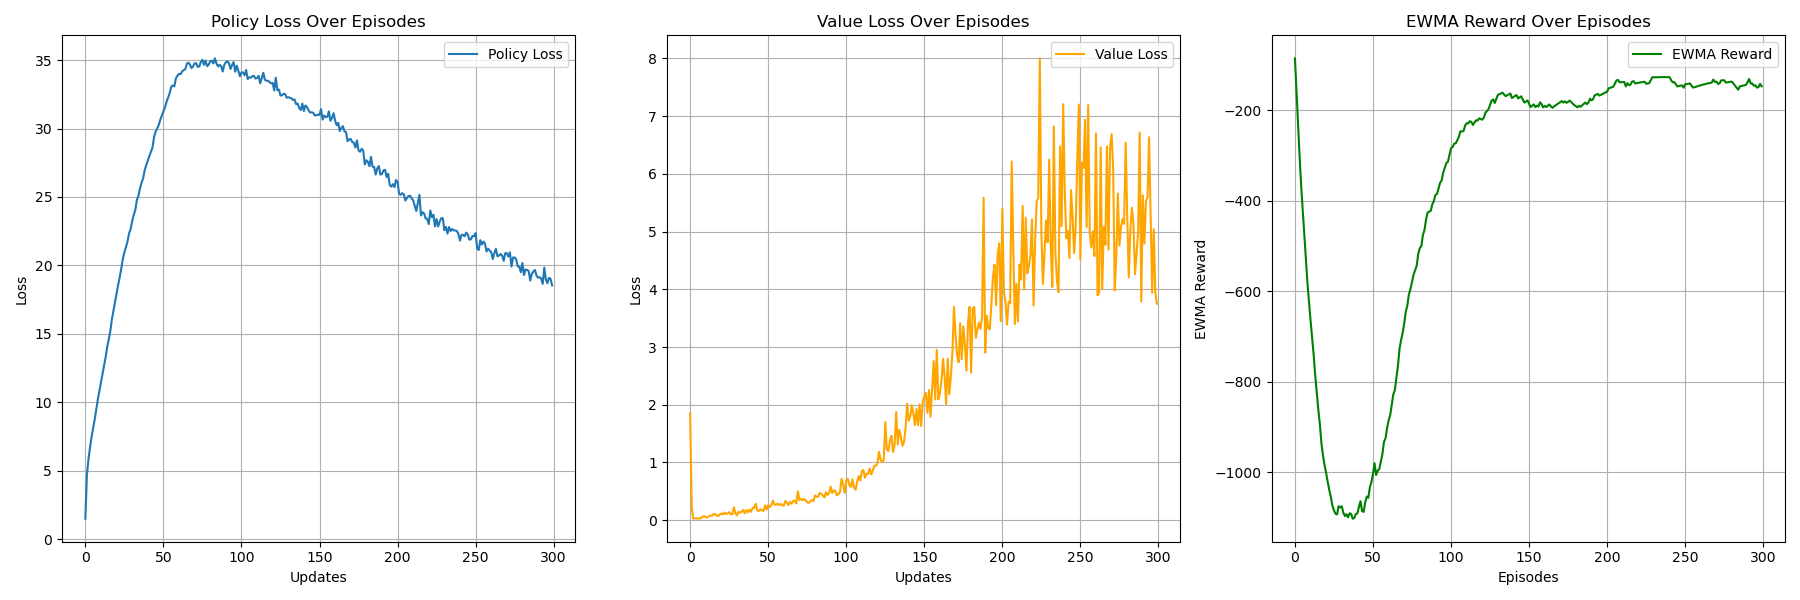
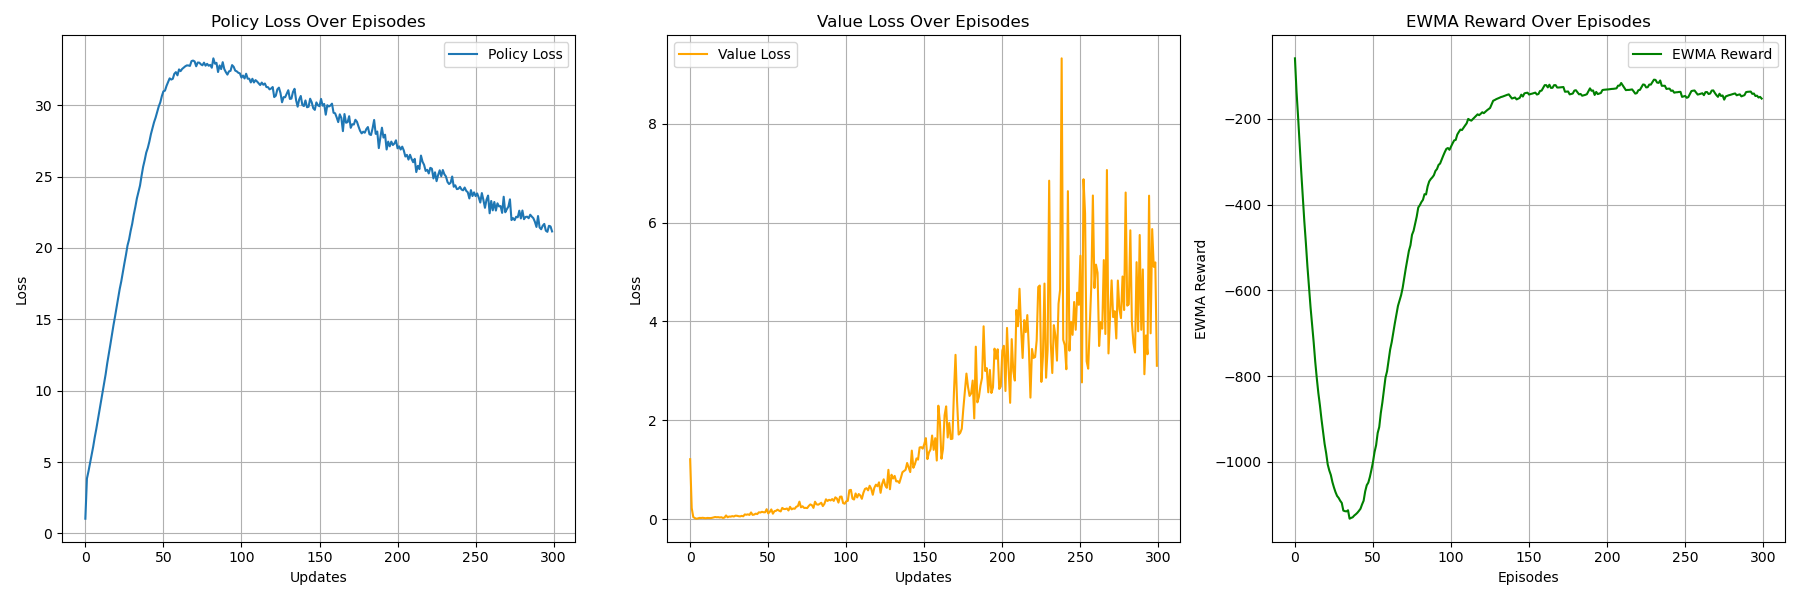
minor fix and add SAC discrete

diff --git a/SAC/sac_adv_discrete.py b/SAC/sac_adv_discrete.py
@@ -1,0 +1,324 @@
+import random
+import gym
+import numpy as np
+import torch
+import torch.nn as nn
+import torch.optim as optim
+import torch.nn.functional as F
+from torch.distributions import Categorical
+import matplotlib.pyplot as plt
+from collections import namedtuple
+
+
+# Target copy utility
+def soft_update(target, source, tau):
+    for target_param, param in zip(target.parameters(), source.parameters()):
+        target_param.data.copy_(target_param.data * (1.0 - tau) + param.data * tau)
+
+def hard_update(target, source):
+    for target_param, param in zip(target.parameters(), source.parameters()):
+        target_param.data.copy_(param.data)
+
+
+# CUDA GPU device usage utility
+deviceGPU = torch.device("cuda" if torch.cuda.is_available() else "cpu")
+
+def to_device(data):
+    """Move a tensor or a collection of tensors to the specified device."""
+    if isinstance(data, (list, tuple)):
+        return [to_device(d, deviceGPU) for d in data]
+    return data.to(deviceGPU)
+
+
+# Replay buffer utility
+Transition = namedtuple(
+    'Transition', ('state', 'action', 'mask', 'next_state', 'reward'))
+
+class ReplayMemory:
+    def __init__(self, capacity):
+        self.capacity = capacity
+        self.memory = []
+        self.position = 0
+    def push(self, *args):
+        if len(self.memory) < self.capacity:
+            self.memory.append(None)
+        self.memory[self.position] = Transition(*args)
+        self.position = int((self.position + 1) % self.capacity)  # as a ring buffer
+    
+    def sample(self, batch_size):
+        return random.sample(self.memory, batch_size) #state, action, reward, next_state, done
+
+    def __len__(self):
+        return len(self.memory)
+
+
+# SAC Q net for discrete
+class SoftQNetwork(nn.Module):
+    def __init__(self, hidden_size, num_inputs, num_actions):
+        super(SoftQNetwork, self).__init__()
+        
+        self.layers = nn.Sequential(
+            nn.Linear(num_inputs, hidden_size),
+            nn.ReLU(),  # Replace with the provided activation if needed
+            nn.Linear(hidden_size, hidden_size),
+            nn.ReLU(),
+            nn.Linear(hidden_size, num_actions),
+        )
+
+    def forward(self, inputs):
+        x = self.layers(inputs)
+        return x
+        
+
+# SAC policy net for discrete
+class PolicyNetwork(nn.Module):
+    def __init__(self, hidden_size, num_inputs, num_actions):
+        super(PolicyNetwork, self).__init__()
+        
+        self.layers = nn.Sequential(
+            nn.Linear(num_inputs, hidden_size),
+            nn.ReLU(),  # Replace with the provided activation if needed
+            nn.Linear(hidden_size, hidden_size),
+            nn.ReLU(),
+            nn.Linear(hidden_size, num_actions),
+            nn.Softmax(dim=-1)
+        )
+
+        self.num_actions = num_actions
+        
+    def forward(self, state):
+        probs = self.layers(state)
+        return probs
+    
+    def evaluate(self, state, epsilon=1e-8):
+        '''
+        generate sampled action with state as input wrt the policy network;
+        '''
+        probs = self.forward(state)
+        log_probs = torch.log(probs)
+
+        # stable result
+        z = (probs == 0.0).float() * epsilon
+        log_probs = torch.log(probs + z)
+
+        return log_probs
+        
+    def get_action(self, state, deterministic):
+        probs = self.forward(state)
+        dist = Categorical(probs)
+
+        if deterministic:
+            action = np.argmax(probs.detach().cpu().numpy())
+        else:
+            action = dist.sample().squeeze().detach().cpu().numpy()
+        return action.item()
+
+
+# Advanced SOFT ACTOR and CRITIC AGENT for discrete
+class ADVSOFTACTORCRITICAGENT():
+    def __init__(self, hidden_dim, q_lr = 3e-4, p_lr = 3e-4, a_lr = 3e-4):
+
+        self.soft_q_net1 = SoftQNetwork(hidden_dim, state_dim, action_dim).to(deviceGPU)
+        self.soft_q_net2 = SoftQNetwork(hidden_dim, state_dim, action_dim).to(deviceGPU)
+        self.target_soft_q_net1 = SoftQNetwork(hidden_dim, state_dim, action_dim).to(deviceGPU)
+        self.target_soft_q_net2 = SoftQNetwork(hidden_dim, state_dim, action_dim).to(deviceGPU)
+        hard_update(self.target_soft_q_net1, self.soft_q_net1)
+        hard_update(self.target_soft_q_net2, self.soft_q_net2)
+
+        self.policy_net = PolicyNetwork(hidden_dim, state_dim, action_dim).to(deviceGPU)
+        self.log_alpha = torch.zeros(1, dtype=torch.float32, requires_grad=True, device=deviceGPU)
+
+        self.soft_q_criterion1 = nn.MSELoss()
+        self.soft_q_criterion2 = nn.MSELoss()
+
+        self.soft_q_optimizer1 = optim.Adam(self.soft_q_net1.parameters(), lr=q_lr)
+        self.soft_q_optimizer2 = optim.Adam(self.soft_q_net2.parameters(), lr=q_lr)
+        self.policy_optimizer = optim.Adam(self.policy_net.parameters(), lr=p_lr)
+        self.alpha_optimizer = optim.Adam([self.log_alpha], lr=a_lr)
+    
+    def update(self, batch, reward_scale=10., auto_entropy=True, target_entropy=-2, gamma=0.99, soft_tau=1e-2):
+        state = to_device(torch.cat([b.state for b in batch]))
+        action = to_device(torch.cat([b.action for b in batch]))
+        reward = to_device(torch.cat([b.reward for b in batch]).unsqueeze(1))
+        done = to_device(torch.cat([b.mask for b in batch]).unsqueeze(1))
+        next_state = to_device(torch.cat([b.next_state for b in batch]))
+
+        '''
+        print(state.shape)
+        print(next_state.shape)
+        print(action.shape)
+        print(reward.shape)
+        print(done.shape)
+        '''
+
+        predicted_q_value1 = self.soft_q_net1(state)
+        predicted_q_value1 = predicted_q_value1.gather(1, action.unsqueeze(-1))
+        predicted_q_value2 = self.soft_q_net2(state)
+        predicted_q_value2 = predicted_q_value2.gather(1, action.unsqueeze(-1))
+
+        log_prob = self.policy_net.evaluate(state)
+        
+        with torch.no_grad():
+            next_log_prob = self.policy_net.evaluate(next_state)
+        
+        # Updating alpha wrt entropy
+        # alpha = 0.0  # trade-off between exploration (max entropy) and exploitation (max Q) 
+        if auto_entropy is True:
+            policy_probs = log_prob.exp()
+            entropy = (policy_probs * log_prob).sum(dim=1)
+            alpha_loss = -(self.log_alpha * (entropy + target_entropy).detach()).mean()
+            self.alpha_optimizer.zero_grad()
+            alpha_loss.backward()
+            self.alpha_optimizer.step()
+            self.alpha = self.log_alpha.exp()
+        else:
+            self.alpha = 1.
+            alpha_loss = 0
+
+        # Training Q Function
+        target_q_min = (next_log_prob.exp() * (torch.min(self.target_soft_q_net1(next_state),self.target_soft_q_net2(next_state)) - self.alpha * next_log_prob)).sum(dim=-1).unsqueeze(-1)
+        target_q_value = reward + (1 - done) * gamma * target_q_min 
+        q_value_loss1 = self.soft_q_criterion1(predicted_q_value1, target_q_value.detach())
+        q_value_loss2 = self.soft_q_criterion2(predicted_q_value2, target_q_value.detach())
+
+        self.soft_q_optimizer1.zero_grad()
+        q_value_loss1.backward()
+        self.soft_q_optimizer1.step()
+        self.soft_q_optimizer2.zero_grad()
+        q_value_loss2.backward()
+        self.soft_q_optimizer2.step()  
+
+        # Training Policy Function
+        with torch.no_grad(): # without reparameterization action, q value not dependent on policy
+            predicted_new_q_value = torch.min(self.soft_q_net1(state),self.soft_q_net2(state))
+        policy_loss = (log_prob.exp()*(self.alpha * log_prob - predicted_new_q_value)).sum(dim=-1).mean()
+        
+        self.policy_optimizer.zero_grad()
+        policy_loss.backward()
+        self.policy_optimizer.step()
+
+        # Soft update the target value net
+        soft_update(self.target_soft_q_net1, self.soft_q_net1, soft_tau)
+        soft_update(self.target_soft_q_net2, self.soft_q_net2, soft_tau)
+            
+        return policy_loss, q_value_loss1+q_value_loss2
+
+
+# MAIN
+env = gym.make('CartPole-v1')
+state_dim  = env.observation_space.shape[0]
+action_dim = env.action_space.n  # discrete
+
+env.reset(seed=1)
+np.random.seed(1)
+random.seed(1)
+torch.manual_seed(1) # config for CPU
+torch.cuda.manual_seed(1) # config for GPU
+
+# hyper-parameters for RL training
+max_episodes  = 500
+batch_size  = 256
+AUTO_ENTROPY=True
+DETERMINISTIC=False
+hidden_dim = 512
+replay_buffer_size = 1e6
+target_entropy = -1.*action_dim
+# target_entropy = 0.98 * -np.log(1 / action_dim)
+
+q_losses = []
+p_losses = []
+all_rewards = []
+ewma_reward = 0
+
+replay_buffer = ReplayMemory(replay_buffer_size)
+advSACDAgent=ADVSOFTACTORCRITICAGENT(hidden_dim=hidden_dim)
+
+if __name__ == '__main__':
+
+    for episode_idx in range(max_episodes):
+        initState, _ =  env.reset()
+        state = torch.Tensor([initState]).to(deviceGPU)
+
+        episode_q_loss = 0.0
+        episode_p_loss = 0.0
+        episode_reward = 0.0
+        step = 0
+
+        terminate = False
+        truncated = False
+
+        while not terminate and not truncated:
+            step = step+1
+
+            action = advSACDAgent.policy_net.get_action(state, deterministic = DETERMINISTIC)
+
+            next_state, reward, terminate, truncated, _ = env.step(action)
+            # env.render()       
+                
+            #replay_buffer.push(state, action, reward, next_state, terminate)
+            replay_buffer.push(
+                state, 
+                torch.tensor([action], device=deviceGPU), 
+                torch.tensor([terminate], dtype=torch.float32, device=deviceGPU),
+                torch.tensor([next_state], device=deviceGPU),
+                torch.tensor([reward], dtype=torch.float32, device=deviceGPU)
+                )
+            
+            state = torch.tensor([next_state], device=deviceGPU)
+            episode_reward += reward
+            
+            if len(replay_buffer) > batch_size:
+                batch = replay_buffer.sample(batch_size)
+                ploss, qloss=advSACDAgent.update(batch, reward_scale=1., auto_entropy=AUTO_ENTROPY, target_entropy=target_entropy)
+                episode_p_loss = episode_p_loss+ploss.item()
+                episode_q_loss = episode_q_loss + qloss.item()*0.5
+            if terminate:
+                break
+
+        q_losses.append(episode_q_loss/step)
+        p_losses.append(episode_p_loss/step)
+        ewma_reward = 0.05 * episode_reward + (1 - 0.05) * ewma_reward
+        all_rewards.append(ewma_reward)
+
+        if episode_idx % 1 == 0:
+            print('Episode {}\tlength: {}\treward: {}\t ewma reward: {}\t p_loss: {}, q_loss: {}'.format(episode_idx, step, 
+                                                    episode_reward, ewma_reward, episode_p_loss/step, episode_q_loss/step))
+
+
+    # Plot the losses and EWMA reward after training
+    plt.figure(figsize=(18, 6))
+    
+    # Plot policy loss
+    plt.subplot(1, 3, 1)
+    plt.plot(p_losses, label='Policy Loss')
+    plt.title('Policy Loss Over Episodes')
+    plt.xlabel('Updates')
+    plt.ylabel('Loss')
+    plt.grid(True)
+    plt.legend()
+    
+    # Plot value loss
+    plt.subplot(1, 3, 2)
+    plt.plot(q_losses, label='Value Loss', color='orange')
+    plt.title('Value Loss Over Episodes')
+    plt.xlabel('Updates')
+    plt.ylabel('Loss')
+    plt.grid(True)
+    plt.legend()
+
+    # Plot EWMA reward
+    plt.subplot(1, 3, 3)
+    plt.plot(all_rewards, label='EWMA Reward', color='green')
+    plt.title('EWMA Reward Over Episodes')
+    plt.xlabel('Episodes')
+    plt.ylabel('EWMA Reward')
+    plt.grid(True)
+    plt.legend()
+
+    plt.tight_layout()
+
+    # Save the plot as an image
+    plt.savefig('ADV_SAC_Discrete_plot-whole.png')
+    plt.show()
+
+

diff --git a/TD3/td3.py b/TD3/td3.py
@@ -119,7 +119,7 @@ class Critic(nn.Module):
         return self.layers(torch.cat([inputs, actions], dim=-1))
     
 
-class DDPGAGENT(object):
+class TD3AGENT(object):
     def __init__(self, num_inputs, action_space, gamma=0.995, tau=0.0005, hidden_size=128, lr_a=1e-4, lr_c=1e-3,
                 policy_noise=0.2, noise_clip=0.5, policy_delay=2):
 
@@ -257,7 +257,7 @@ def train():
     lr_a=3e-4
     lr_c=3e-3
     
-    ddpgAgent = DDPGAGENT(env.observation_space.shape[0], env.action_space, gamma, tau, hidden_size,lr_a, lr_c)
+    td3Agent = TD3AGENT(env.observation_space.shape[0], env.action_space, gamma, tau, hidden_size,lr_a, lr_c)
     ounoise = OUNoise(env.action_space.shape[0])
     replay_buffer = ReplayMemory(replay_size)
     
@@ -277,7 +277,7 @@ def train():
         while not terminate and not truncated:
             step = step +1
             
-            action = ddpgAgent.select_action(state, ounoise.noise())
+            action = td3Agent.select_action(state, ounoise.noise())
             next_state, reward, terminate, truncated, info = env.step(action.cpu().numpy()[0])
 
             done = terminate
@@ -297,7 +297,7 @@ def train():
 
             if replay_buffer.__len__() >= batch_size and total_numsteps%updates_per_step == 0:
                 training_batch = replay_buffer.sample(batch_size)
-                value_loss, policy_loss = ddpgAgent.update_parameters(training_batch)
+                value_loss, policy_loss = td3Agent.update_parameters(training_batch)
 
                 if policy_loss != None:
                     episode_p_losses += policy_loss.item()

diff --git a/SAC/sac_adv.py b/SAC/sac_adv.py
@@ -85,8 +85,7 @@ class NormalizedActions(gym.ActionWrapper):
 class SoftQNetwork(nn.Module):
     def __init__(self, hidden_size, num_inputs, num_actions,  init_w=3e-3):
         super(SoftQNetwork, self).__init__()
-        
-        super(SoftQNetwork, self).__init__()
+
         self.layers = nn.Sequential(
             nn.Linear(num_inputs + num_actions, hidden_size),
             nn.ReLU(),
@@ -263,6 +262,7 @@ class ADVSOFTACTORCRITICAGENT():
 
 
         # Training Policy Function
+        # reparameterization action, q value dependent on policy, cannot detach
         predicted_new_q_value = torch.min(self.soft_q_net1(state, new_action),self.soft_q_net2(state, new_action))
         policy_loss = (self.alpha * log_prob - predicted_new_q_value).mean()
 

diff --git a/SAC/sac.py b/SAC/sac.py
@@ -270,6 +270,7 @@ class SOFTACTORCRITICAGENT(object):
 
 
         # Training Policy Function
+        # reparameterization action, q value dependent on policy, cannot detach
         policy_loss = (alpha * log_prob - predicted_new_q_value).mean()
 
         self.policy_optimizer.zero_grad()
